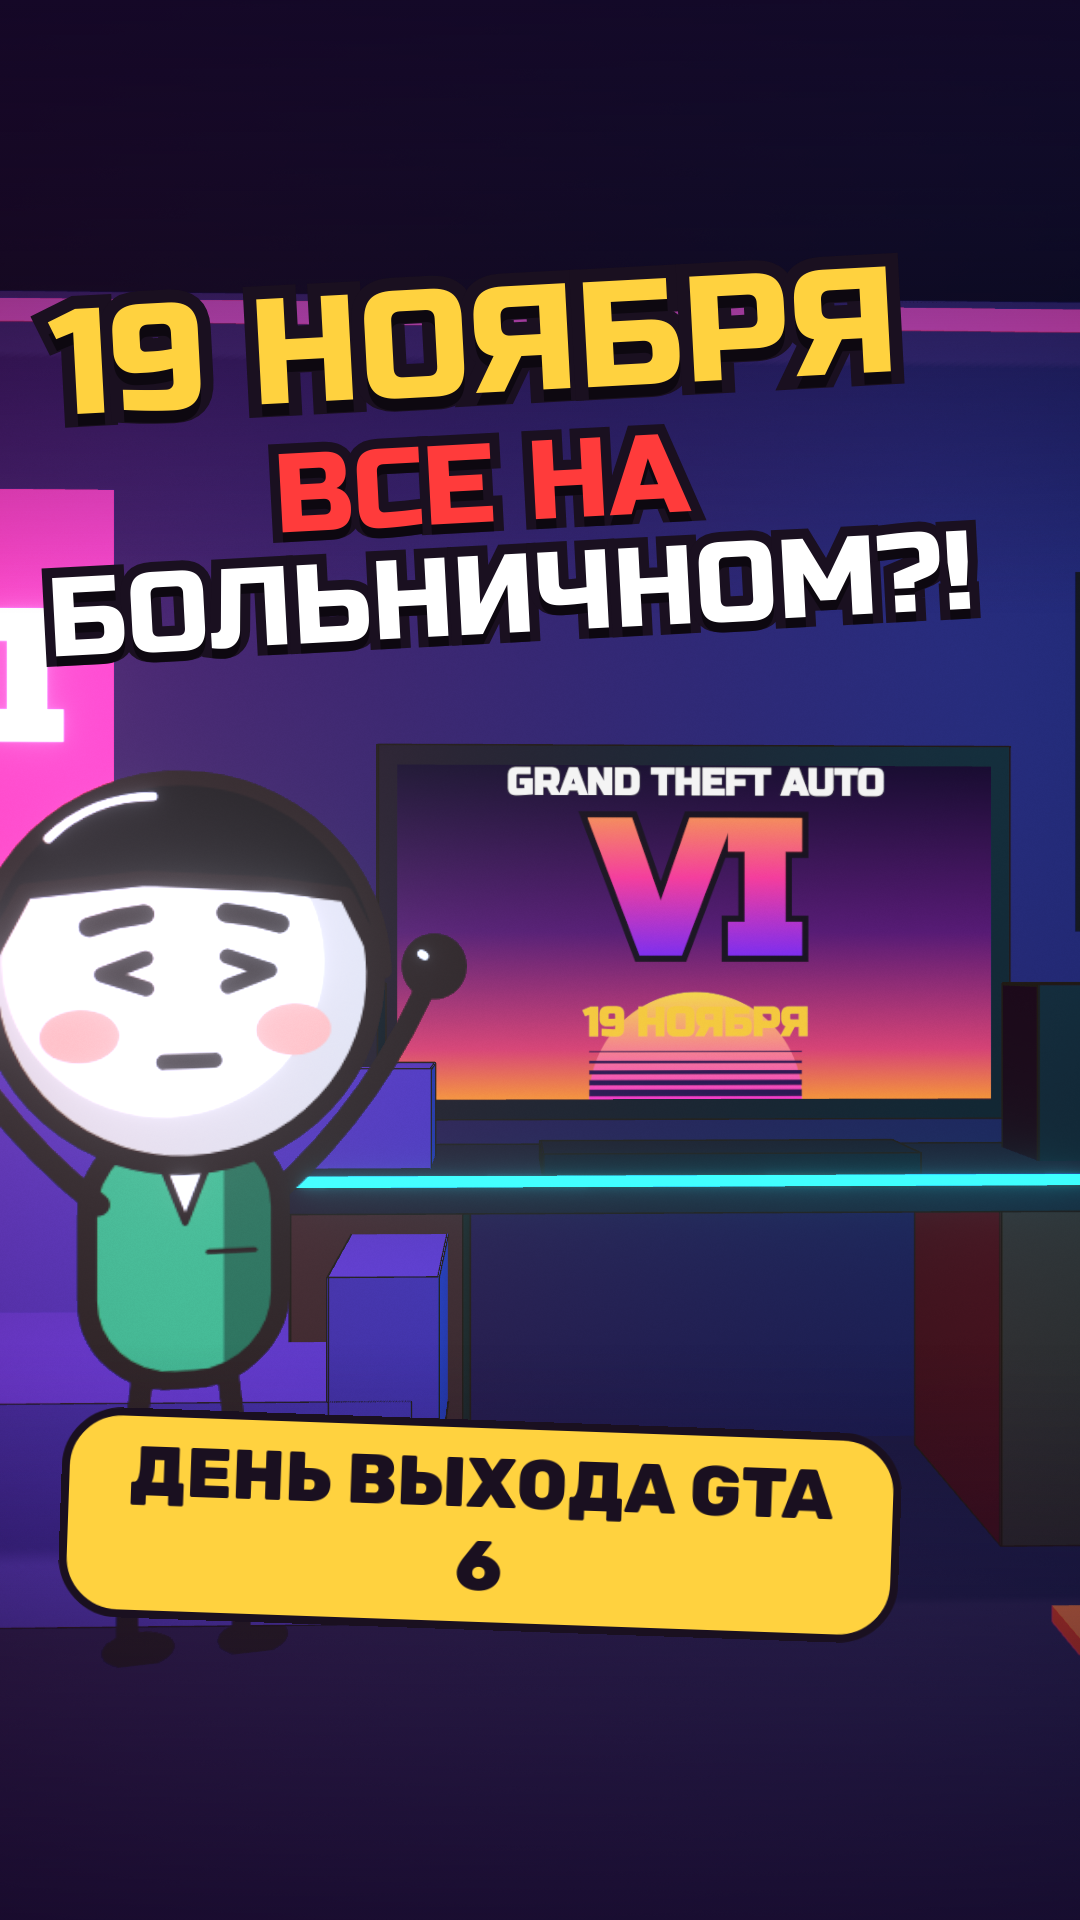
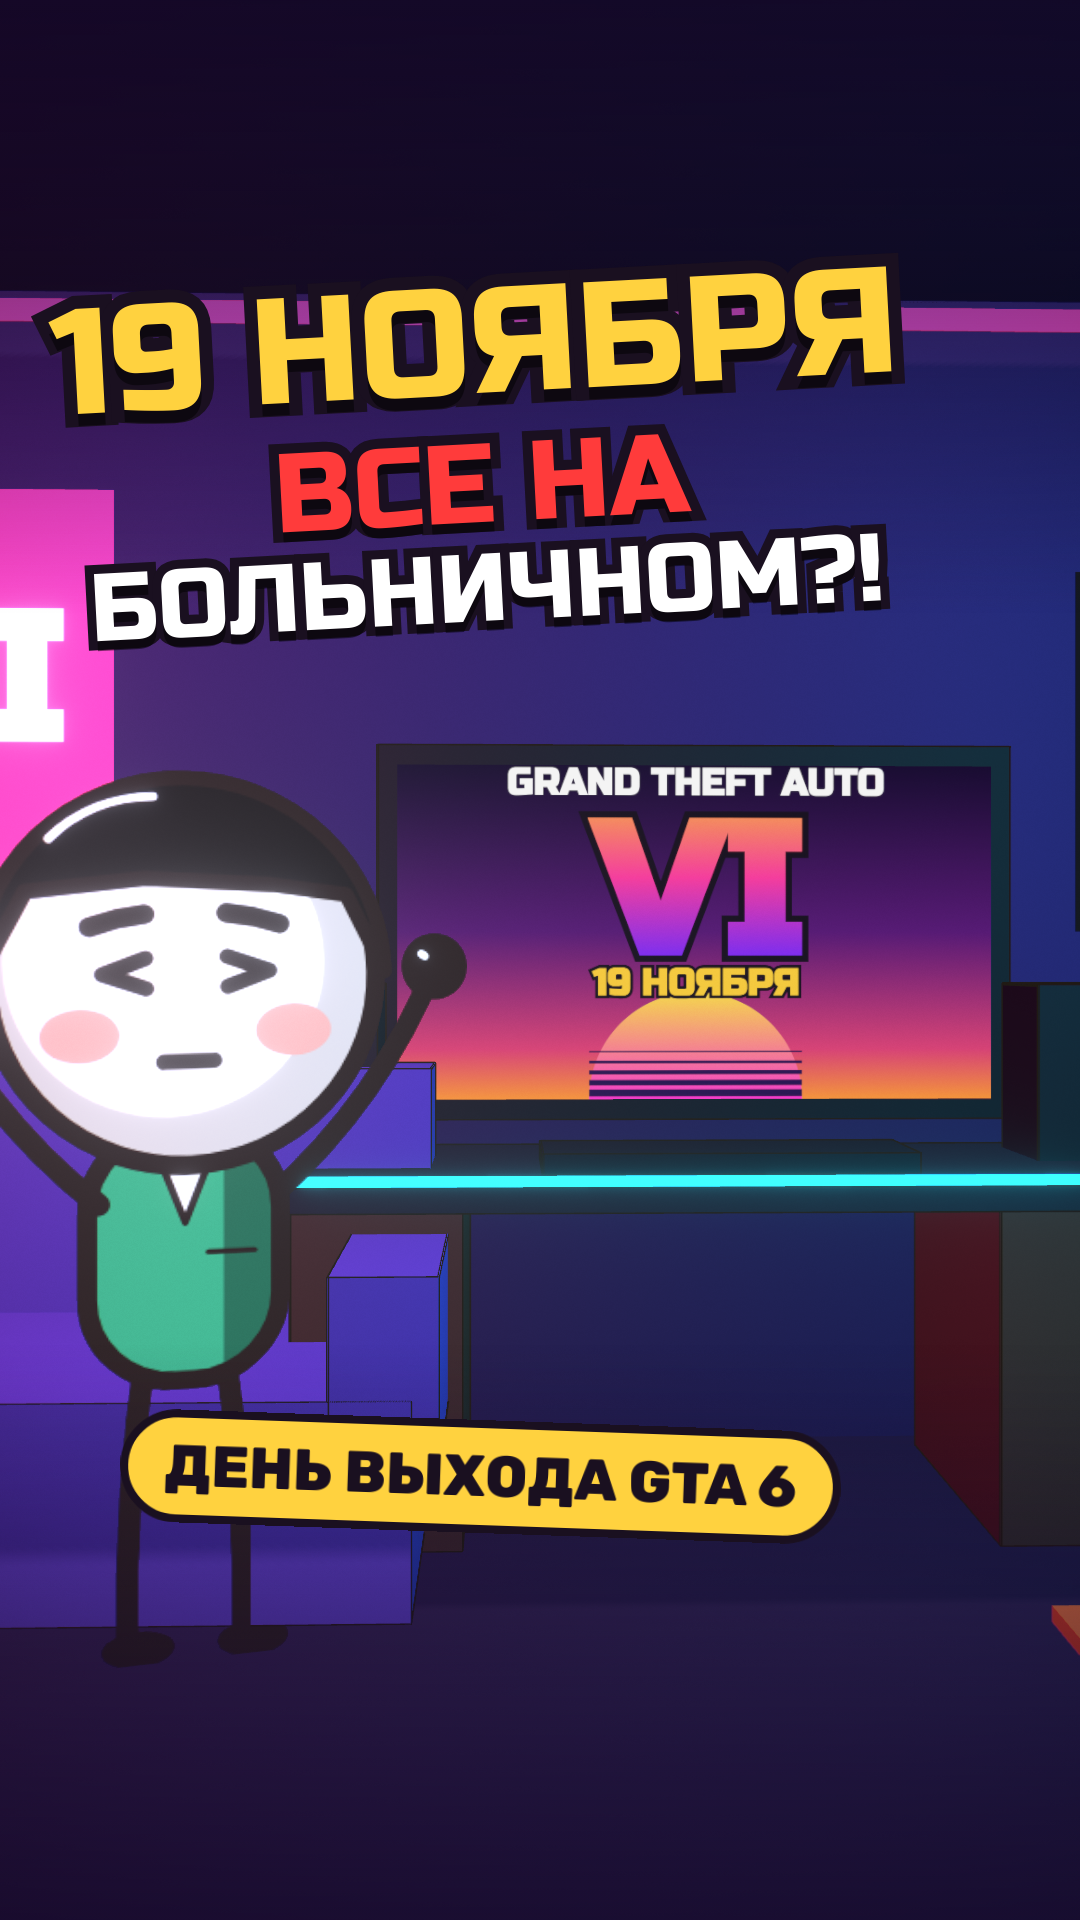
gta6-day: cover text fit, title screen date above sun
Claude-Session: https://claude.ai/code/session_011LggaPfuq63mYBEmk7bgMy

Changed region(s): [[0.0306, 0.7188, 0.8556, 0.875], [0.0306, 0.25, 0.9167, 0.3438], [0.55, 0.5, 0.7639, 0.5625]]

diff --git a/gta6-day/src/Cover.tsx b/gta6-day/src/Cover.tsx
@@ -22,10 +22,10 @@ export const Cover: React.FC = () => {
       <div style={{ position: "absolute", top: 270, left: 40, width: 880, textAlign: "center", fontFamily: "Russo One", lineHeight: 1.0, transform: "rotate(-3deg)" }}>
         <div style={{ fontSize: 150, color: "#ffd23f", ...stroke(26), textShadow: "0 12px 0 rgba(0,0,0,0.5)" }}>19 НОЯБРЯ</div>
         <div style={{ fontSize: 112, color: "#ff3b3b", ...stroke(20), marginTop: 10, textShadow: "0 10px 0 rgba(0,0,0,0.5)" }}>ВСЕ НА</div>
-        <div style={{ fontSize: 112, color: "#ffffff", ...stroke(20), textShadow: "0 10px 0 rgba(0,0,0,0.5)" }}>БОЛЬНИЧНОМ?!</div>
+        <div style={{ fontSize: 96, color: "#ffffff", ...stroke(18), textShadow: "0 10px 0 rgba(0,0,0,0.5)" }}>БОЛЬНИЧНОМ?!</div>
       </div>
       <div style={{ position: "absolute", top: 1420, left: 60, width: 840, textAlign: "center" }}>
-        <span style={{ display: "inline-block", fontFamily: "Rubik", fontWeight: 800, fontSize: 70, color: "#1a1020", background: "#ffd23f", padding: "14px 40px", borderRadius: 60, border: "8px solid #1a1020", transform: "rotate(2deg)" }}>
+        <span style={{ display: "inline-block", fontFamily: "Rubik", fontWeight: 800, fontSize: 58, whiteSpace: "nowrap", color: "#1a1020", background: "#ffd23f", padding: "14px 36px", borderRadius: 60, border: "8px solid #1a1020", transform: "rotate(2deg)" }}>
           ДЕНЬ ВЫХОДА GTA 6
         </span>
       </div>

diff --git a/gta6-day/src/sets2.tsx b/gta6-day/src/sets2.tsx
@@ -15,7 +15,7 @@ export const titleDraw = (pause?: number): Draw => (g, s, W, H) => {
   const r = H * 0.32, cx = W / 2, cy = H * 1.0; const sg = g.createLinearGradient(0, cy - r, 0, cy); sg.addColorStop(0, "#FFE14D"); sg.addColorStop(1, "#FF3BD4");
   g.fillStyle = sg; g.beginPath(); g.arc(cx, cy, r, Math.PI, 0); g.fill(); g.fillStyle = "#2B1055"; for (let i = 0; i < 5; i++) g.fillRect(cx - r, cy - r * 0.45 + i * r * 0.09, r * 2, 3 + i * 3);
   drawLogo(g, W, H, H * 0.42, H / 360);
-  fitText(g, "19 НОЯБРЯ", W / 2, H * 0.78, W * 0.6, H * 0.12, YEL);
+  g.save(); g.font = `900 ${H * 0.11}px ${FONT}`; g.textAlign = "center"; g.textBaseline = "middle"; g.lineWidth = H * 0.018; g.strokeStyle = INK; g.strokeText("19 НОЯБРЯ", W / 2, H * 0.66); g.fillStyle = YEL; g.fillText("19 НОЯБРЯ", W / 2, H * 0.66); g.restore();
   if (pause !== undefined && s >= pause) { const k = popAt(s, pause, 0.3); g.save(); g.globalAlpha = 0.55 * Math.min(1, k); g.fillStyle = "#000"; g.fillRect(0, 0, W, H); g.restore();
     g.save(); g.translate(W / 2, H / 2); g.scale(k, k); g.fillStyle = "#fff"; g.fillRect(-W * 0.09, -H * 0.2, W * 0.06, H * 0.4); g.fillRect(W * 0.03, -H * 0.2, W * 0.06, H * 0.4); g.restore(); }
 };
